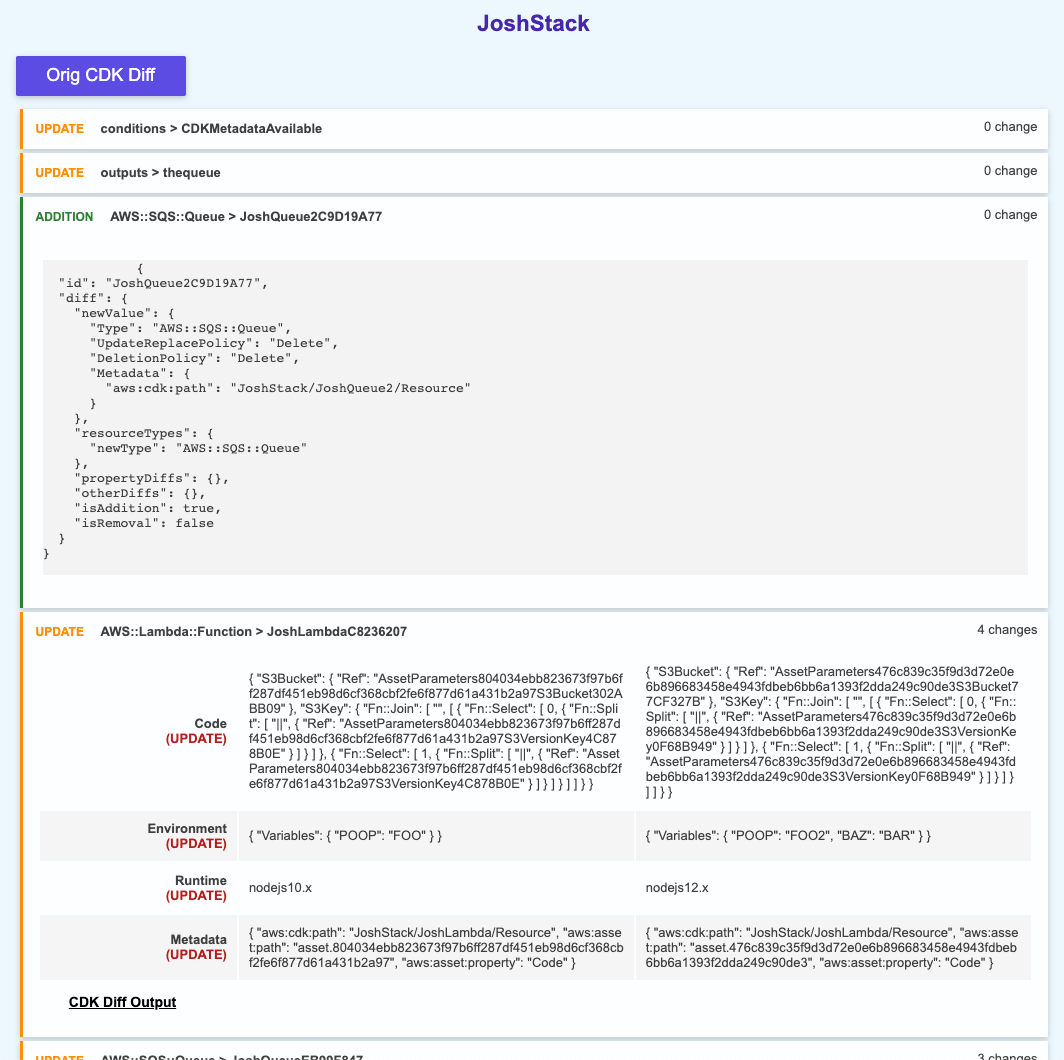
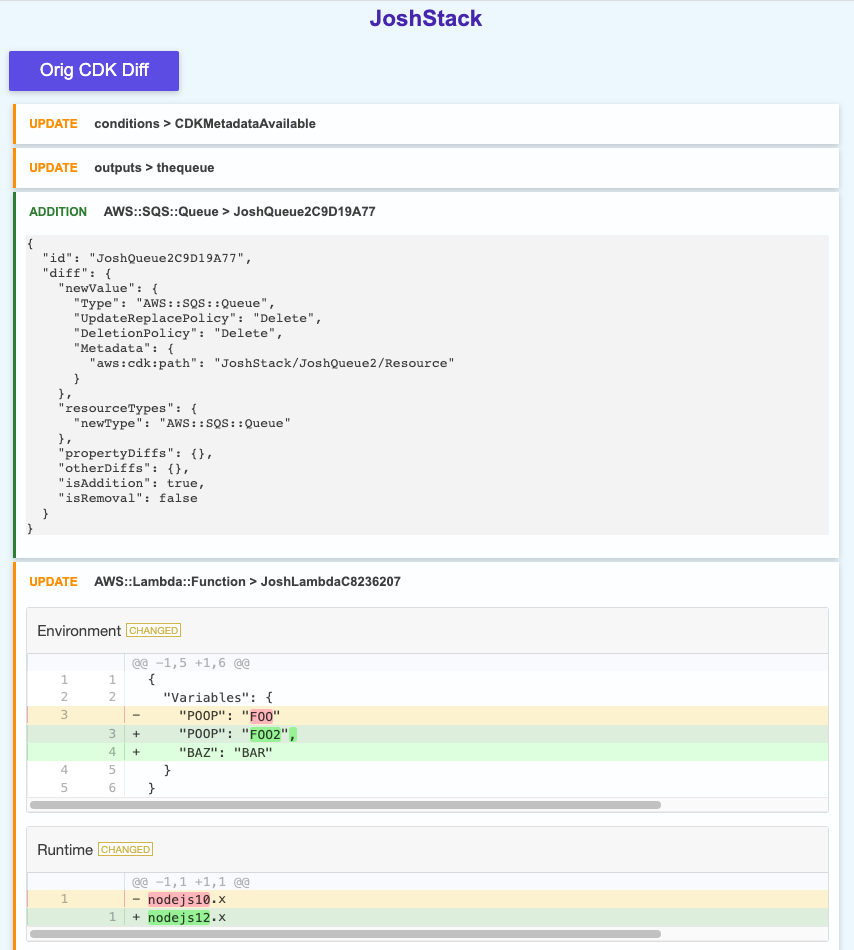
add diff2html formatted diff for resource changes, cleanup html, update README

Changed region(s): [[0.0, 0.0305, 1.0, 1.0], [0.4262, 0.0, 0.5785, 0.0305]]

diff --git a/dist/render.js b/dist/render.js
@@ -3,6 +3,8 @@ Object.defineProperty(exports, "__esModule", { value: true });
 exports.renderCustomDiffToHtmlString = void 0;
 const path_1 = require("path");
 const fs_1 = require("fs");
+const diff_1 = require("diff");
+const diff2html = require("diff2html");
 const prettify = (valueIn) => {
     const value = typeof valueIn === "string" ? valueIn : JSON.stringify(valueIn, null, 2);
     if (value === "<computed>") {
@@ -29,48 +31,70 @@ const prettifyJson = (maybeJson) => {
 };
 const components = {
     badge: (label) => `
-      <span class="badge">${label}</span>
+    <span class="badge">${label}</span>
   `,
     id: (id) => `
-      <span class="id">
-          <span class="id-segment type">${id.resourceType}</span>
-          <span class="id-segment name">${id.resourceLabel}</span>
-      </span>
+    <span class="id">
+      <span class="id-segment type">${id.resourceType}</span>
+      <span class="id-segment name">${id.resourceLabel}</span>
+    </span>
   `,
     warning: (warning) => `
-      <li>
-          ${components.badge("warning")}
-          ${components.id(warning.id)}
-          <span>${warning.detail}</span>
-      </li>
+    <li>
+      ${components.badge("warning")}
+      ${components.id(warning.id)}
+      <span>${warning.detail}</span>
+    </li>
   `,
     changeCount: (count) => `
-      <span class="change-count">
-          ${`${count} change${count > 1 ? "s" : ""}`}
-      </span>
+    <span class="change-count">
+      ${`${count} change${count > 1 ? "s" : ""}`}
+    </span>
   `,
-    change: ({ action, from, to, label }) => `
+    changeNoDiff: ({ action, to, label }) => `
     <tr>
       <td class="property">
         ${label}
         ${`<br /><span class="forces-new-resource">(${action})</span>`}
       </td>
-      <td class="old-value">${from ? prettify(from) : ""}</td>
       <td class="new-value">${prettify(to)}</td>
     </tr>
   `,
+    changeDiff: ({ from, to, label }) => `
+    <div>
+      ${diff2html.html(diff_1.createTwoFilesPatch(label, label, prettify(from), prettify(to)), {
+        outputFormat: 'line-by-line',
+        drawFileList: false,
+        matching: 'words',
+        matchWordsThreshold: 0.25,
+        matchingMaxComparisons: 200,
+    })}
+    </div>
+  `,
+    changes: (changes) => {
+        const diffChanges = changes.filter(({ from }) => !!from);
+        const noDiffChanges = changes.filter(({ from }) => !from);
+        return `
+      <div class="changes-breakdown">
+        <div class="no-diff-changes-breakdown">
+          ${noDiffChanges.length ? (`
+            <table>
+              ${noDiffChanges.map(components.changeNoDiff).join("")}
+            </table>
+          `) : ''}
+        </div>
+        ${diffChanges.map(components.changeDiff).join("")}
+      </table>
+    `;
+    },
     action: ({ cdkDiffRaw, nicerDiff, label }) => `
     <li class="${(nicerDiff === null || nicerDiff === void 0 ? void 0 : nicerDiff.resourceAction.toLocaleLowerCase()) || "create"}">
       <div class="summary" onclick="accordion(this)">
         ${components.badge((nicerDiff === null || nicerDiff === void 0 ? void 0 : nicerDiff.resourceAction) || "")}
         ${components.id(nicerDiff || { resourceType: "", resourceLabel: label })}
-        ${(nicerDiff === null || nicerDiff === void 0 ? void 0 : nicerDiff.changes) ? components.changeCount(nicerDiff.changes.length)
-        : ""}
       </div>
       <div class="changes collapsed">
-        ${(nicerDiff === null || nicerDiff === void 0 ? void 0 : nicerDiff.changes.length) ? `<table>
-              ${nicerDiff === null || nicerDiff === void 0 ? void 0 : nicerDiff.changes.map(components.change).join("")}
-          </table>`
+        ${(nicerDiff === null || nicerDiff === void 0 ? void 0 : nicerDiff.changes.length) ? components.changes(nicerDiff.changes)
         : ""}
         ${components.rawDiff(cdkDiffRaw, "CDK Diff Output", {
         collapsed: !(nicerDiff === null || nicerDiff === void 0 ? void 0 : nicerDiff.changes.length),
@@ -92,9 +116,7 @@ const components = {
         ? ""
         : `<button onclick="accordion(this)">${toggleCaption}</button>`}
       <div class="changes ${(opts === null || opts === void 0 ? void 0 : opts.collapsed) ? "collapsed" : ""}">
-          <pre>
-            ${raw}
-          </pre>
+          <pre>${raw}</pre>
       </div>
     </div>
   `,
@@ -119,4 +141,4 @@ exports.renderCustomDiffToHtmlString = (diffs, title) => {
     html = html.replace(`<div id="stacks"></div>`, `<div id="stacks">${stacksHtml}</div>`);
     return html;
 };
[2 lines of base64/hex data omitted]

diff --git a/src/render.ts b/src/render.ts
@@ -1,5 +1,7 @@
 import { resolve } from "path";
 import { readFileSync } from "fs";
+import { createTwoFilesPatch } from 'diff';
+import * as diff2html from 'diff2html';
 
 import { NicerDiff, NicerDiffChange, NicerStackDiff } from "./types";
 
@@ -35,40 +37,72 @@ const prettifyJson = (maybeJson: string): string => {
 
 const components = {
   badge: (label: string): string => `
-      <span class="badge">${label}</span>
+    <span class="badge">${label}</span>
   `,
 
   id: (id: any): string => `
-      <span class="id">
-          <span class="id-segment type">${id.resourceType}</span>
-          <span class="id-segment name">${id.resourceLabel}</span>
-      </span>
+    <span class="id">
+      <span class="id-segment type">${id.resourceType}</span>
+      <span class="id-segment name">${id.resourceLabel}</span>
+    </span>
   `,
 
   warning: (warning: any): string => `
-      <li>
-          ${components.badge("warning")}
-          ${components.id(warning.id)}
-          <span>${warning.detail}</span>
-      </li>
+    <li>
+      ${components.badge("warning")}
+      ${components.id(warning.id)}
+      <span>${warning.detail}</span>
+    </li>
   `,
 
   changeCount: (count: number): string => `
-      <span class="change-count">
-          ${`${count} change${count > 1 ? "s" : ""}`}
-      </span>
+    <span class="change-count">
+      ${`${count} change${count > 1 ? "s" : ""}`}
+    </span>
   `,
 
-  change: ({ action, from, to, label }: NicerDiffChange): string => `
+  changeNoDiff: ({ action, to, label }: NicerDiffChange): string => `
     <tr>
       <td class="property">
         ${label}
         ${`<br /><span class="forces-new-resource">(${action})</span>`}
       </td>
-      <td class="old-value">${from ? prettify(from) : ""}</td>
       <td class="new-value">${prettify(to)}</td>
     </tr>
   `,
+
+  changeDiff: ({ from, to, label }: NicerDiffChange): string => `
+    <div>
+      ${diff2html.html(
+        createTwoFilesPatch(label, label, prettify(from), prettify(to)),
+        {
+          outputFormat: 'line-by-line',
+          drawFileList: false,
+          matching: 'words',
+          matchWordsThreshold: 0.25,
+          matchingMaxComparisons: 200,
+        }
+      )}
+    </div>
+  `,
+
+  changes: (changes: NicerDiffChange[]) => {
+    const diffChanges = changes.filter(({ from }) => !!from);
+    const noDiffChanges = changes.filter(({ from }) => !from);
+
+    return `
+      <div class="changes-breakdown">
+        <div class="no-diff-changes-breakdown">
+          ${noDiffChanges.length ? (`
+            <table>
+              ${noDiffChanges.map(components.changeNoDiff).join("")}
+            </table>
+          `) : ''}
+        </div>
+        ${diffChanges.map(components.changeDiff).join("")}
+      </table>
+    `
+  },
 
   action: ({ cdkDiffRaw, nicerDiff, label }: NicerDiff): string => `
     <li class="${nicerDiff?.resourceAction.toLocaleLowerCase() || "create"}">
@@ -77,18 +111,11 @@ const components = {
         ${components.id(
           nicerDiff || { resourceType: "", resourceLabel: label }
         )}
-        ${
-          nicerDiff?.changes
-            ? components.changeCount(nicerDiff.changes.length)
-            : ""
-        }
       </div>
       <div class="changes collapsed">
         ${
           nicerDiff?.changes.length
-            ? `<table>
-              ${nicerDiff?.changes.map(components.change).join("")}
-          </table>`
+            ? components.changes(nicerDiff.changes)
             : ""
         }
         ${components.rawDiff(cdkDiffRaw, "CDK Diff Output", {
@@ -119,9 +146,7 @@ const components = {
           : `<button onclick="accordion(this)">${toggleCaption}</button>`
       }
       <div class="changes ${opts?.collapsed ? "collapsed" : ""}">
-          <pre>
-            ${raw}
-          </pre>
+          <pre>${raw}</pre>
       </div>
     </div>
   `,

diff --git a/dist/pretty-diff-template.html b/dist/pretty-diff-template.html
@@ -4,6 +4,7 @@
     <meta charset="utf-8" />
     <title>prettyplan</title>
     <meta name="viewport" content="width=device-width, initial-scale=1" />
+    <link rel="stylesheet" type="text/css" href="https://cdn.jsdelivr.net/npm/diff2html/bundles/css/diff2html.min.css" />
     <style>
       body {
         font-family: Arial, Helvetica, sans-serif;
@@ -304,16 +305,16 @@
         cursor: pointer;
       }
 
-      .changes {
+      .no-diff-changes-breakdown {
         margin: 5px auto 0 auto;
         padding: 5px;
       }
-      .changes table {
+      .no-diff-changes-breakdown table {
         width: 100%;
         word-break: break-all;
         font-size: 13px;
       }
-      .changes table td {
+      .no-diff-changes-breakdown table td {
         padding: 10px;
         width: 40%;
       }
@@ -321,12 +322,12 @@
         white-space: pre-wrap;
         background: #f3f3f3;
       }
-      .changes table td.property {
+      .no-diff-changes-breakdown table td.property {
         width: 20%;
         text-align: right;
         font-weight: bold;
       }
-      .changes table tr:nth-child(even) {
+      .no-diff-changes-breakdown table tr:nth-child(even) {
         background-color: #f5f5f5;
       }
 
@@ -347,6 +348,10 @@
         box-shadow: none;
         font-weight: bold;
         font-size: 14px;
+      }
+
+      .d2h-icon {
+        display: none;
       }
     </style>
   </head>

diff --git a/src/pretty-diff-template.html b/src/pretty-diff-template.html
@@ -4,6 +4,7 @@
     <meta charset="utf-8" />
     <title>prettyplan</title>
     <meta name="viewport" content="width=device-width, initial-scale=1" />
+    <link rel="stylesheet" type="text/css" href="https://cdn.jsdelivr.net/npm/diff2html/bundles/css/diff2html.min.css" />
     <style>
       body {
         font-family: Arial, Helvetica, sans-serif;
@@ -304,16 +305,16 @@
         cursor: pointer;
       }
 
-      .changes {
+      .no-diff-changes-breakdown {
         margin: 5px auto 0 auto;
         padding: 5px;
       }
-      .changes table {
+      .no-diff-changes-breakdown table {
         width: 100%;
         word-break: break-all;
         font-size: 13px;
       }
-      .changes table td {
+      .no-diff-changes-breakdown table td {
         padding: 10px;
         width: 40%;
       }
@@ -321,12 +322,12 @@
         white-space: pre-wrap;
         background: #f3f3f3;
       }
-      .changes table td.property {
+      .no-diff-changes-breakdown table td.property {
         width: 20%;
         text-align: right;
         font-weight: bold;
       }
-      .changes table tr:nth-child(even) {
+      .no-diff-changes-breakdown table tr:nth-child(even) {
         background-color: #f5f5f5;
       }
 
@@ -347,6 +348,10 @@
         box-shadow: none;
         font-weight: bold;
         font-size: 14px;
+      }
+
+      .d2h-icon {
+        display: none;
       }
     </style>
   </head>

diff --git a/README.md b/README.md
@@ -1,6 +1,6 @@
 # CDK Pretty Diff
 
-Format ugly `cdk diff` output to html making review easier. Inspired by [Terraform prettyplan](https://github.com/chrislewisdev/prettyplan).
+Format (ugly) `cdk diff` output to html making review easier. Inspired by [Terraform prettyplan](https://github.com/chrislewisdev/prettyplan).
 
 ## Installation
 
@@ -34,6 +34,8 @@ html sample screenshot:
 * Original CDK Diff output is available (click the `Orig CDK Diff` button)
 
 ``` typescript
+import { resolve } from 'path';
+import { writeFileSync } from 'fs';
 import { getCustomDiff, renderCustomDiffToHtmlString } from 'cdk-pretty-diff';
 
 const nicerDiffs = await getCustomDiff();
